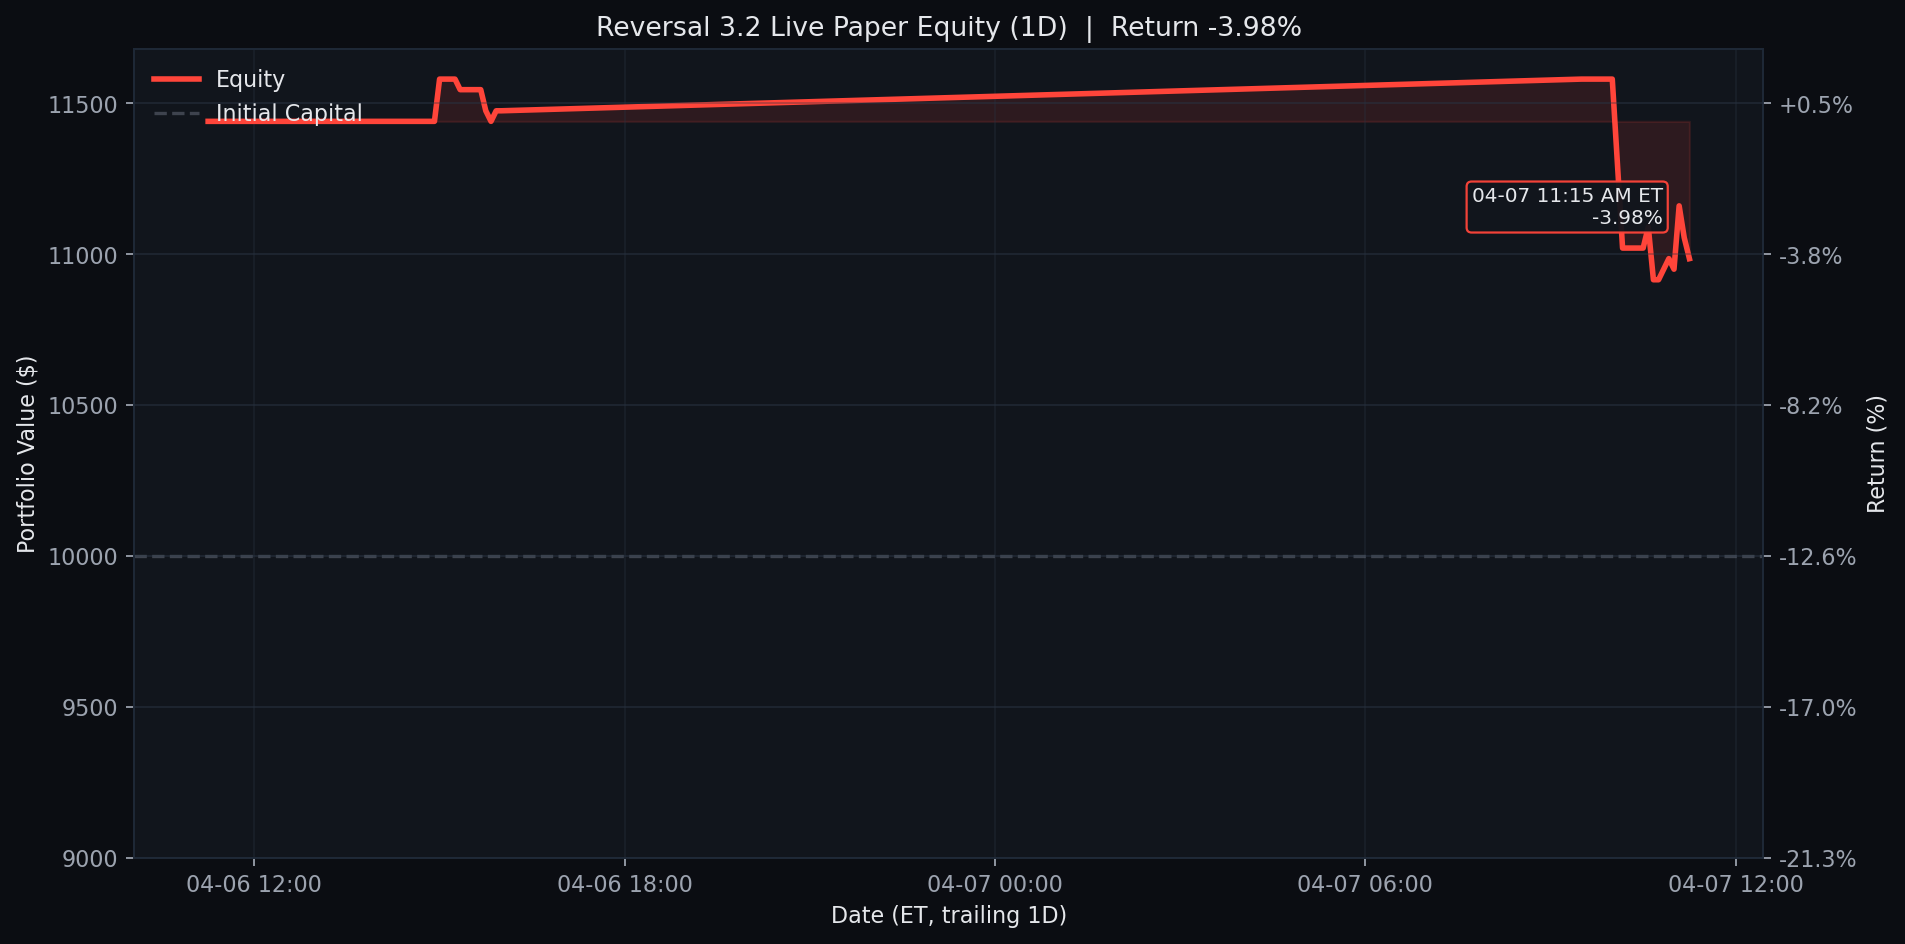
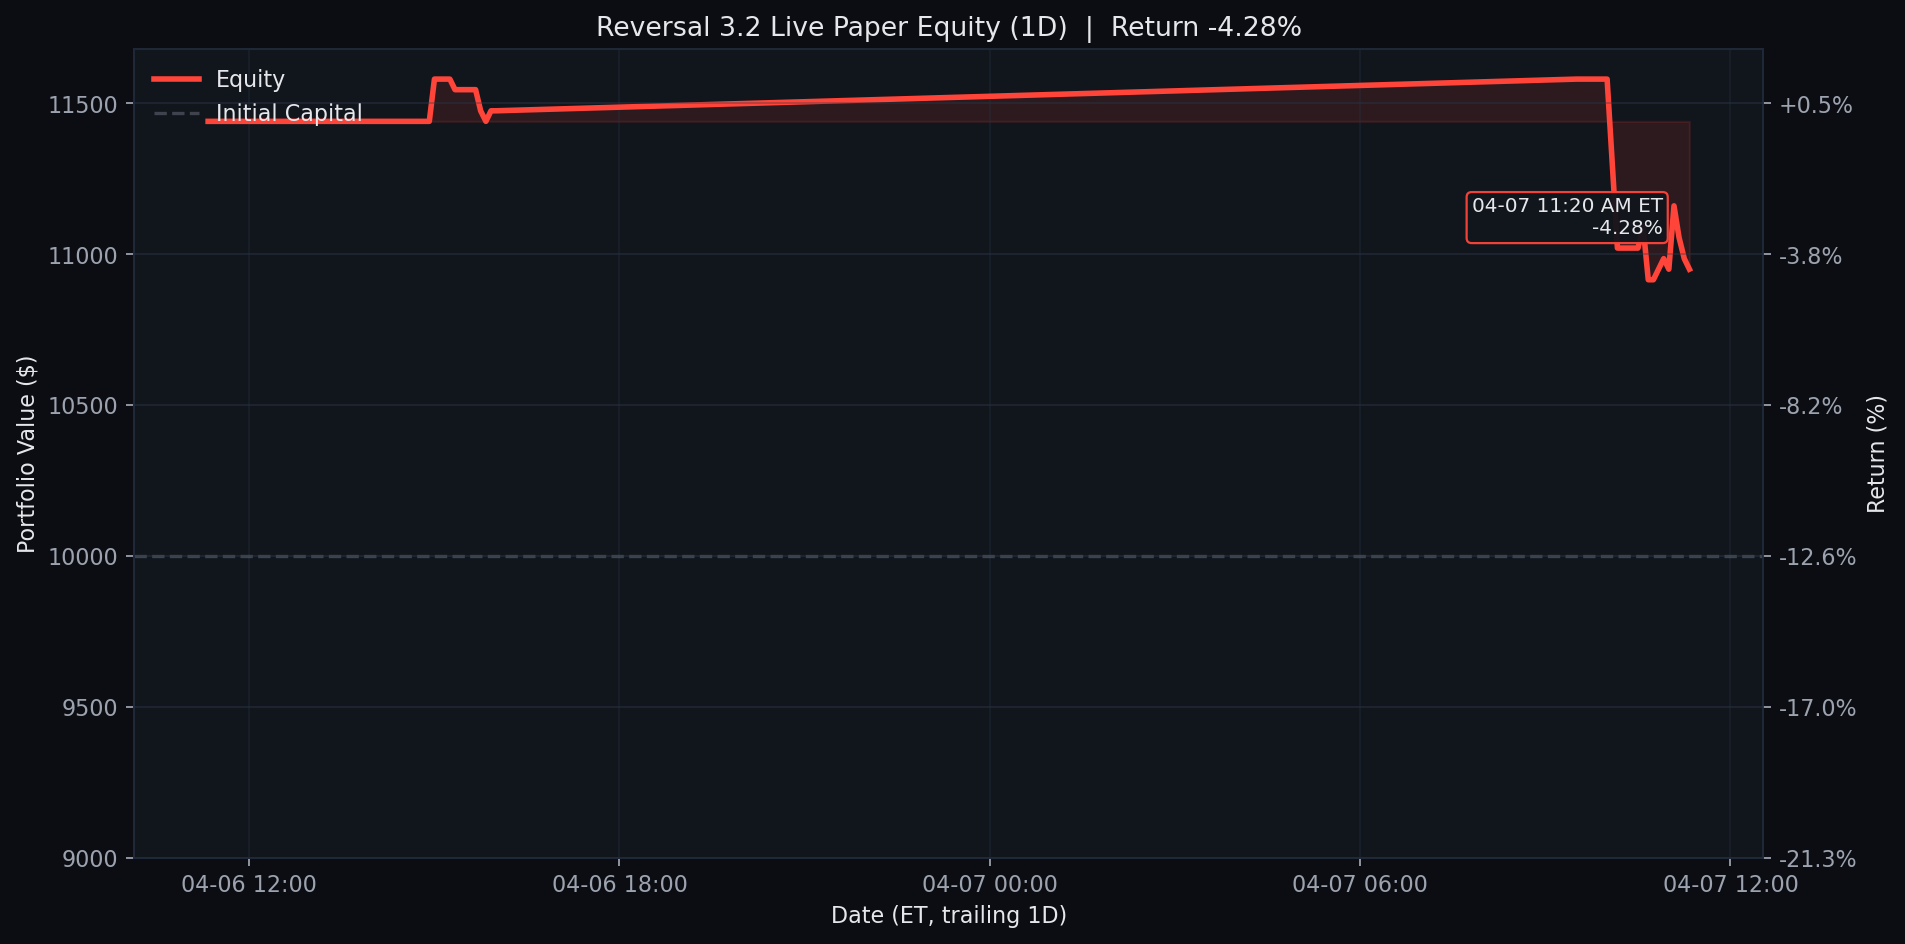
Update Reversal 3.2 live paper test 2026-04-07 11:20 ET

diff --git a/results/reversal_3_2_live/README.md b/results/reversal_3_2_live/README.md
@@ -1,7 +1,7 @@
 # Reversal 3.2 Live Paper Test
 
-Last updated (ET): `2026-04-07 11:15:05 EDT`
-Last processed slot: `manual_refresh`
+Last updated (ET): `2026-04-07 11:20:05 EDT`
+Last processed slot: `manage_1130`
 
 ## Active Configuration
 
@@ -20,16 +20,16 @@ Last processed slot: `manual_refresh`
 ## Portfolio Snapshot
 
 - Cash: `$6,260.00`
-- Equity: `$10,985.00`
+- Equity: `$10,950.00`
 - Realized PnL: `$1,440.00`
-- Unrealized PnL: `$-455.00`
+- Unrealized PnL: `$-490.00`
 - Open positions: `1`
 
 ## Open Positions
 
 ```text
 ticker    contract_symbol entry_trade_date  business_days_held  contracts  cash_spent  current_position_value  entry_option_price  current_option_price  entry_spot  current_spot  unrealized_pnl  unrealized_return_pct  success_rate  matched_signals  current_drop_pct  entry_iv_pct  current_iv_pct  rolling_sigma_20d_pct
-   HON HON260515C00230000       2026-04-06                   1          7      5180.0                  4725.0                 7.4                  6.75      227.61        223.68          -455.0                  -8.78         100.0               20               0.8         28.89           33.28                  20.57
+   HON HON260515C00230000       2026-04-06                   1          7      5180.0                  4690.0                 7.4                   6.7      227.61        223.53          -490.0                  -9.46         100.0               20               0.8         28.89           33.14                  20.57
 ```
 
 ## Today's Closed Trades (2026-04-07)
@@ -40,18 +40,18 @@ _None_
 
 ```text
 ticker  success_rate_%  matched_signals  current_drop_%  target_rebound_$  target_price  rolling_sigma_20d_%  call_candidate
-  MRVL           96.00               25            2.46              1.88        108.70                70.84            True
-  REGN           95.00               20            1.55              8.30        759.48                25.24            True
-  SBUX           94.29               35            0.66              0.44         94.59                40.32            True
-  NVDA           91.67               24            1.55              1.93        176.81                33.70            True
-  MPWR           90.91               33            1.36             11.26       1175.21                51.99            True
-  UPRO           90.91               22            2.57              1.81         99.96                53.86            True
-  COST           90.32               31            0.61              4.37       1016.68                13.04            True
-  ORLY           89.47               38            0.66              0.43         91.95                23.11            True
-  PCAR           89.19               37            0.66              0.54        118.09                21.97            True
-  DDOG           88.89               27            2.09              1.71        115.77                49.06            True
-  VRTX           88.46               26            1.45              4.41        432.41                40.01            True
-  DXCM           88.10               42            0.93              0.41         63.03                29.92            True
+  MRVL           95.65               23            2.54              1.95        108.67                70.84            True
+  NVDA           95.65               23            1.64              2.04        176.77                33.70            True
+  REGN           95.00               20            1.70              9.09        759.14                25.24            True
+  SBUX           93.55               31            0.81              0.54         94.55                40.32            True
+  MPWR           91.18               34            1.13              9.33       1176.03                51.99            True
+  UPRO           90.48               21            2.73              1.93         99.91                53.86            True
+  ORLY           90.24               41            0.56              0.36         91.97                23.11            True
+  PCAR           90.00               40            0.59              0.49        118.11                21.97            True
+  CDNS           89.47               38            1.36              2.67        278.25                25.26            True
+  DXCM           88.89               45            0.60              0.27         63.10                29.92            True
+  DDOG           88.89               27            2.10              1.71        115.77                49.06            True
+   CSX           88.89               27            0.57              0.16         41.41                24.91            True
 ```
 
 ## Recent Events
@@ -77,20 +77,20 @@ Each chart is generated from the same live equity series with no-lookahead marks
 <details>
 <summary><strong>1D</strong></summary>
 
-![Reversal 3.2 Live Equity 1D](../../assets/reversal_3_2_live_equity_1d.png?v=20260407111505)
+![Reversal 3.2 Live Equity 1D](../../assets/reversal_3_2_live_equity_1d.png?v=20260407112005)
 
 </details>
 
 <details open>
 <summary><strong>1W</strong></summary>
 
-![Reversal 3.2 Live Equity 1W](../../assets/reversal_3_2_live_equity.png?v=20260407111505)
+![Reversal 3.2 Live Equity 1W](../../assets/reversal_3_2_live_equity.png?v=20260407112005)
 
 </details>
 
 <details>
 <summary><strong>1M</strong></summary>
 
-![Reversal 3.2 Live Equity 1M](../../assets/reversal_3_2_live_equity_1m.png?v=20260407111505)
+![Reversal 3.2 Live Equity 1M](../../assets/reversal_3_2_live_equity_1m.png?v=20260407112005)
 
 </details>

diff --git a/README.md b/README.md
@@ -3,10 +3,10 @@
 <!-- reversal-3.2-live:start -->
 ## Reversal 3.2 Live Paper Test
 
-- Last updated (ET): `2026-04-07 11:15:05 EDT`
-- Equity: `$10,985.00` | Realized: `$1,440.00` | Unrealized: `$-455.00` | Open positions: `1`
+- Last updated (ET): `2026-04-07 11:20:05 EDT`
+- Equity: `$10,950.00` | Realized: `$1,440.00` | Unrealized: `$-490.00` | Open positions: `1`
 - Today closed trades: `0`
-- Current slot: `manual_refresh`
+- Current slot: `manage_1130`
 - Universe: `qqq_plus_leverage_etfs`
 - Chart windows: `1D / 1W / 1M` (default open panel: `1W`)
 
@@ -14,27 +14,27 @@
 
 ```text
 ticker    contract_symbol  contracts  cash_spent  current_position_value  current_option_price  unrealized_pnl  unrealized_return_pct  business_days_held
-   HON HON260515C00230000          7      5180.0                  4725.0                  6.75          -455.0                  -8.78                   1
+   HON HON260515C00230000          7      5180.0                  4690.0                   6.7          -490.0                  -9.46                   1
 ```
 
 <details>
 <summary><strong>1D</strong></summary>
 
-![Reversal 3.2 Live Equity 1D](assets/reversal_3_2_live_equity_1d.png?v=20260407111505)
+![Reversal 3.2 Live Equity 1D](assets/reversal_3_2_live_equity_1d.png?v=20260407112005)
 
 </details>
 
 <details open>
 <summary><strong>1W</strong></summary>
 
-![Reversal 3.2 Live Equity 1W](assets/reversal_3_2_live_equity.png?v=20260407111505)
+![Reversal 3.2 Live Equity 1W](assets/reversal_3_2_live_equity.png?v=20260407112005)
 
 </details>
 
 <details>
 <summary><strong>1M</strong></summary>
 
-![Reversal 3.2 Live Equity 1M](assets/reversal_3_2_live_equity_1m.png?v=20260407111505)
+![Reversal 3.2 Live Equity 1M](assets/reversal_3_2_live_equity_1m.png?v=20260407112005)
 
 </details>
 
